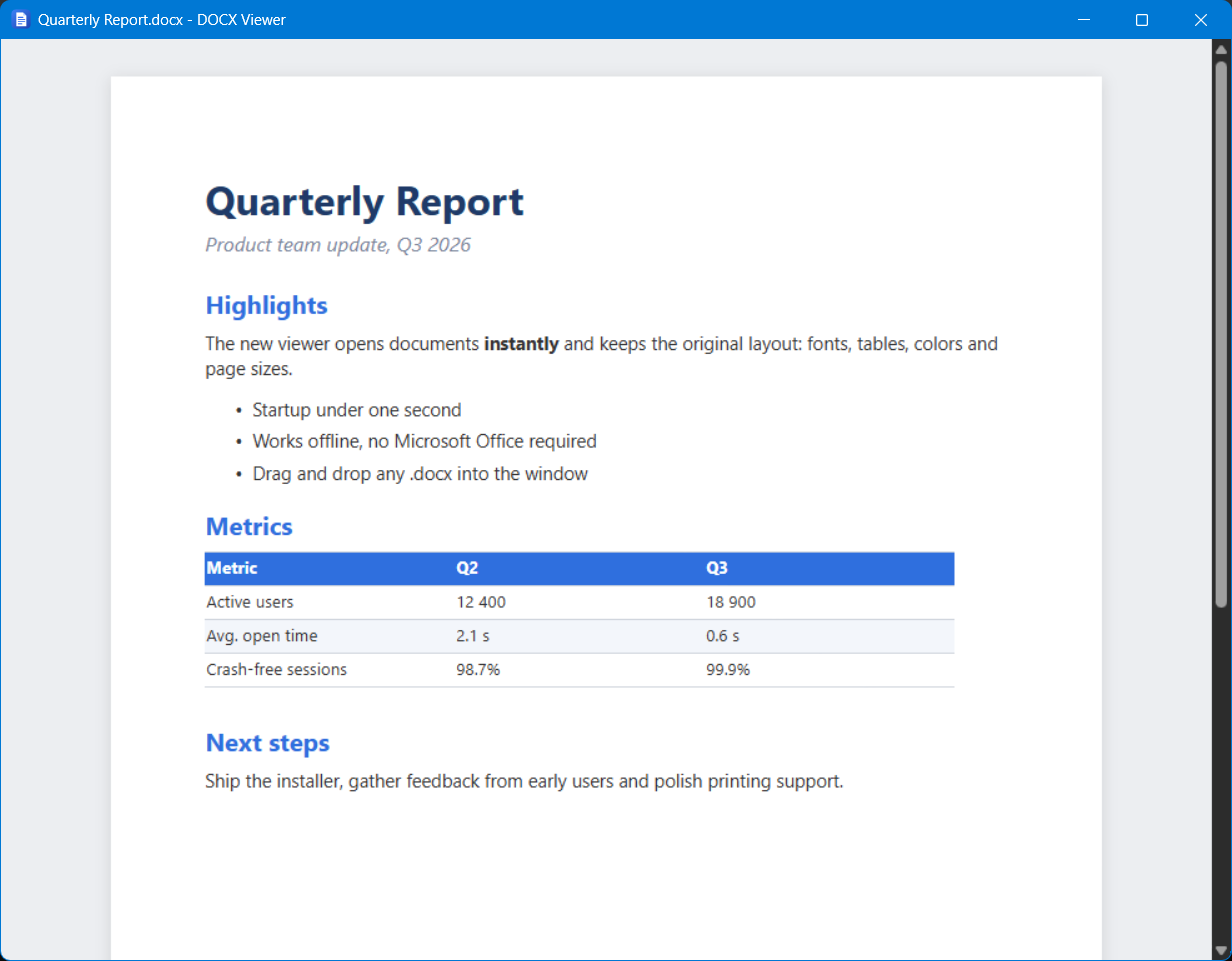
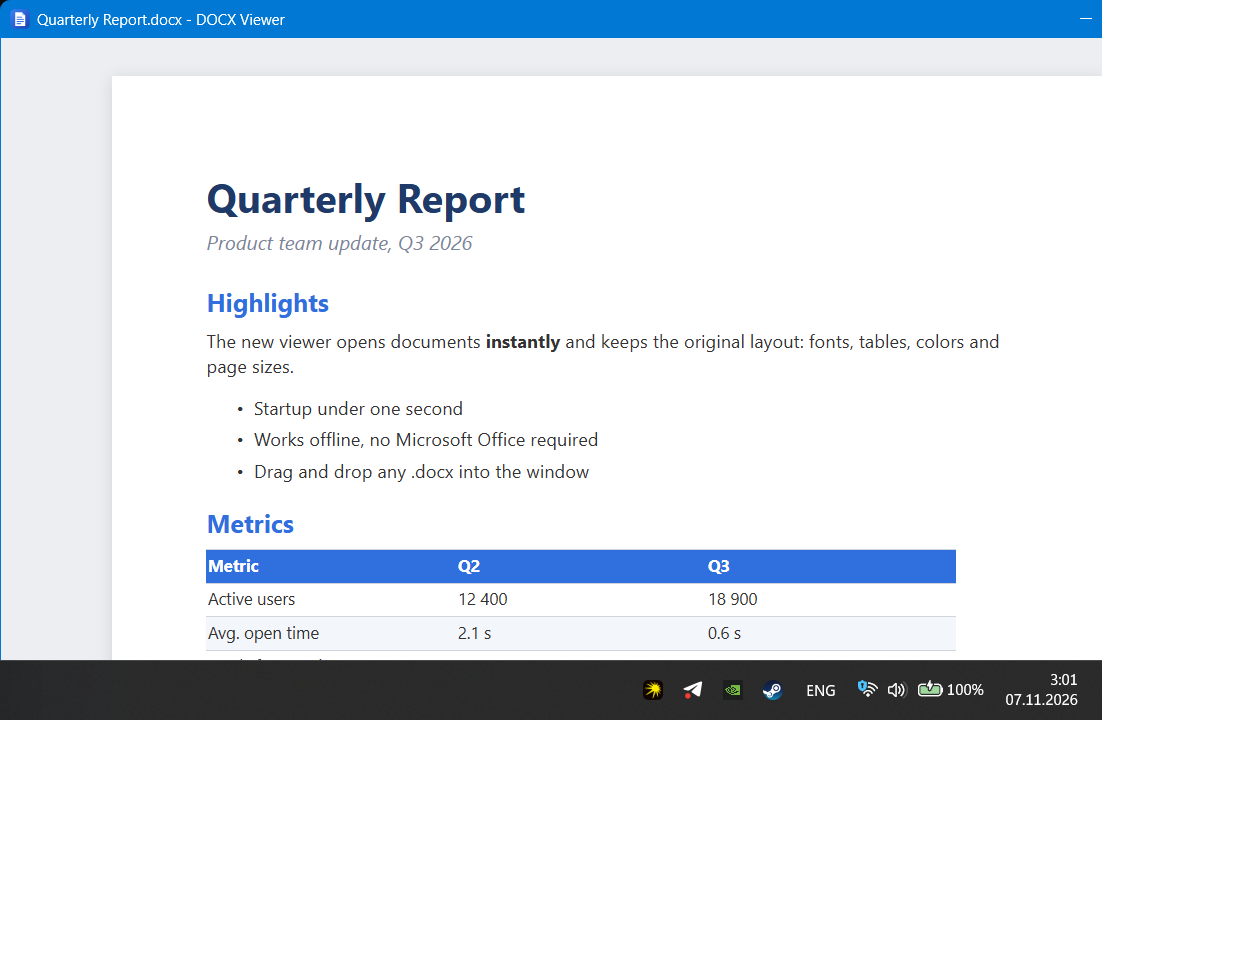
Make app DPI aware to fix blurry rendering on scaled displays

Changed region(s): [[0.0, 0.0, 1.0, 1.0], [0.1542, 0.1873, 0.8328, 0.4995], [0.0, 0.0, 0.2468, 0.0312]]

diff --git a/src/DocxViewer.cs b/src/DocxViewer.cs
@@ -10,8 +10,12 @@ static class DocxViewer
     static void Main(string[] args)
     {
         Application.EnableVisualStyles();
-        var form = new Form { Text = "DOCX Viewer", Width = 1000, Height = Math.Min(900, Screen.PrimaryScreen.WorkingArea.Height - 40), StartPosition = FormStartPosition.CenterScreen,
+        var form = new Form { Text = "DOCX Viewer", StartPosition = FormStartPosition.CenterScreen,
             Icon = System.Drawing.Icon.ExtractAssociatedIcon(Application.ExecutablePath) };
+        float k;
+        using (var g = form.CreateGraphics()) k = g.DpiX / 96f;
+        form.Width = (int)(1000 * k);
+        form.Height = (int)Math.Min(900 * k, Screen.PrimaryScreen.WorkingArea.Height - 40 * k);
         var web = new WebView2 { Dock = DockStyle.Fill };
         form.Controls.Add(web);
         form.Load += async (s, e) =>
